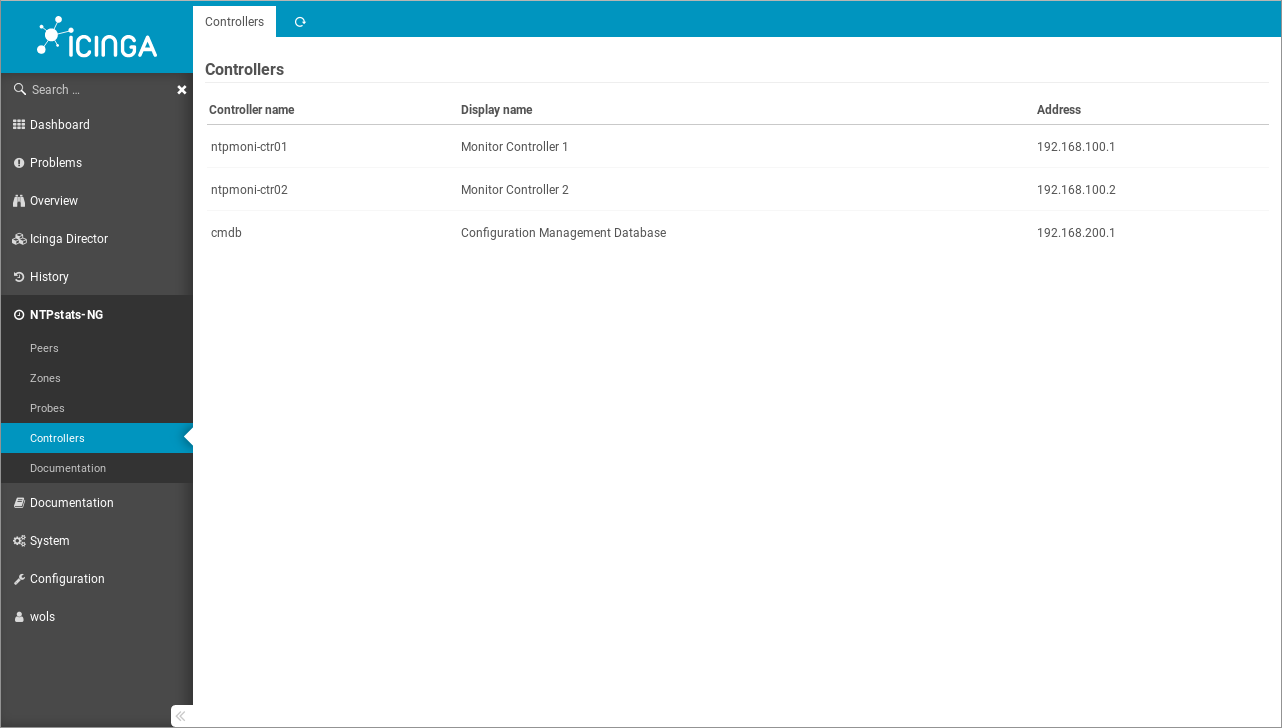
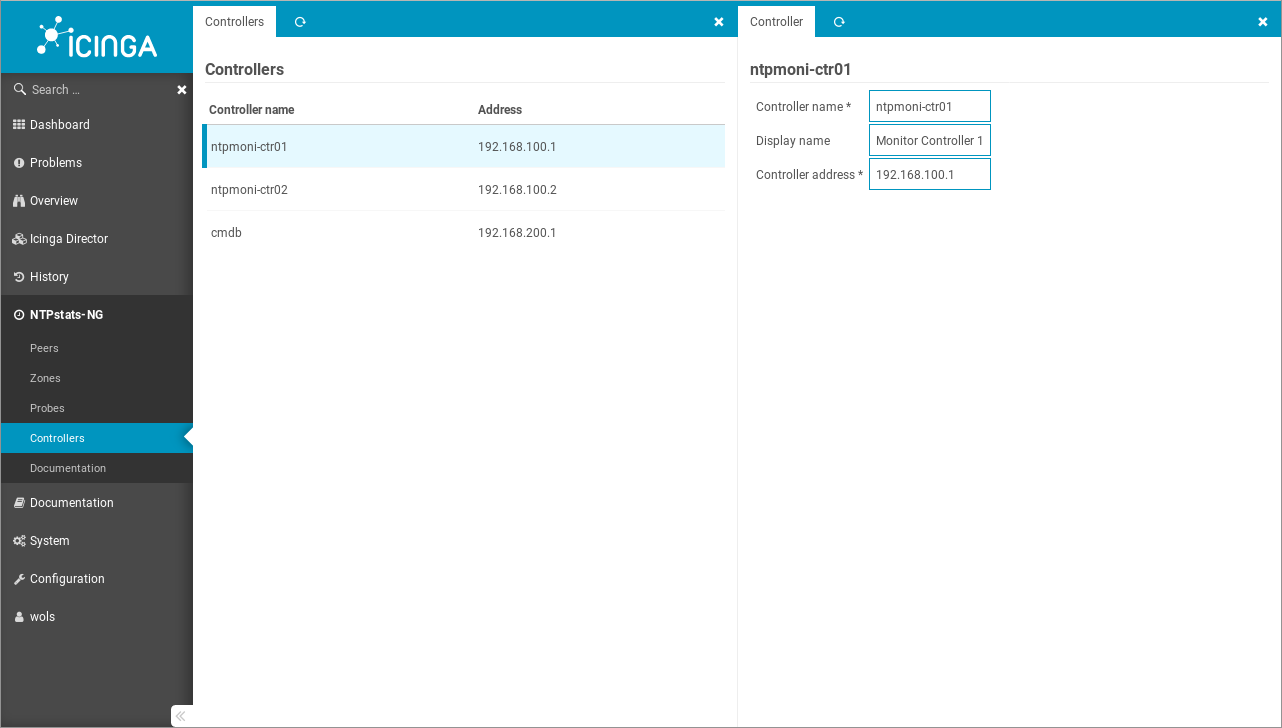
add controller modify, update screenshots

diff --git a/public/css/module.less b/public/css/module.less
@@ -1,0 +1,9 @@
+table.demo_form {
+    border-collapse: separate;
+    border-spacing: 2px;
+}
+
+td.form {
+    border: 1px solid rgb(0, 149, 191);
+    padding: 0.5em;
+}

diff --git a/application/controllers/ModifyController.php b/application/controllers/ModifyController.php
@@ -1,0 +1,125 @@
+<?php
+/* icingaweb2-module-ntpstatsng | (c) 2018 WOLfgang Schricker | GPLv2 */
+
+namespace Icinga\Module\Ntpstatsng\Controllers;
+
+use Icinga\Web\Url;
+use Icinga\Web\Widget\Tabs;
+use Icinga\Module\Ntpstatsng\Data\Db\Demo;
+use Icinga\Module\Ntpstatsng\Controller;
+
+class ModifyController extends Controller
+{
+    /**
+     * @see ActionController::init
+     */
+    public function init()
+    {
+        parent::init();
+        $this->createTabs();
+    }
+
+    /**
+     * Modify controller
+     */
+    public function controllerAction()
+    {
+        $this->addTitleTab(
+            'peer',
+            $this->translate('Controller'),
+            $this->translate('Edit controller')
+        );
+
+        $name  = $this->params->get('name');
+
+        $query = Demo::selectControllers()->where('object_name', $name);
+
+        $this->view->ntpstatsng_controllers = $query->fetchAll();
+
+        $this->view->title = $this->view->ntpstatsng_controllers[0]->object_name;
+    }
+
+    /**
+     * Modify peer
+     */
+    public function peerAction()
+    {
+        $this->addTitleTab(
+            'peer',
+            $this->translate('Peer'),
+            $this->translate('Edit NTP peer')
+        );
+
+        $name  = $this->params->get('name');
+
+        $query = Demo::selectPeers()->where('object_name', $name);
+
+        $this->view->ntpstatsng_peers = $query->fetchAll();
+
+        $this->view->title = $this->view->ntpstatsng_peers[0]->object_name;
+    }
+
+    /**
+     * Modify probe
+     */
+    public function probeAction()
+    {
+        $this->addTitleTab(
+            'probe',
+            $this->translate('Probe'),
+            $this->translate('Edit probe')
+        );
+
+        $name  = $this->params->get('name');
+
+        $query = Demo::selectProbes()->where('object_name', $name);
+
+        $this->view->ntpstatsng_probes = $query->fetchAll();
+
+        $this->view->title = $this->view->ntpstatsng_probes[0]->object_name;
+    }
+
+    /**
+     * Modify zone
+     */
+    public function zoneAction()
+    {
+        $this->addTitleTab(
+            'zone',
+            $this->translate('Zone'),
+            $this->translate('Edit peer zone')
+        );
+
+        $name  = $this->params->get('name');
+
+        $query = Demo::selectZones()->where('object_name', $name);
+
+        $this->view->ntpstatsng_zones = $query->fetchAll();
+
+        $this->view->title = $this->view->ntpstatsng_zones[0]->object_name;
+    }
+
+    /**
+     * The tab and the title
+     */
+    protected function addTitleTab($action, $title, $tip)
+    {
+        $this->getTabs()->add($action, array(
+            'title' => $tip,
+            'label' => $title,
+            'url'   => Url::fromRequest()
+        ))->activate($action);
+
+        $this->view->title = $title;
+    }
+
+    /**
+     * Return all tabs for this controller
+     *
+     * @return Tabs
+     */
+    private function createTabs()
+    {
+        $this->getTabs();
+    }
+}

diff --git a/library/Ntpstatsng/Data/Db/Demo.php b/library/Ntpstatsng/Data/Db/Demo.php
@@ -50,7 +50,6 @@ class Demo
                     'object_name'  => 'peer-ptbtime1',
                     'display_name' => 'ptbtime1.ptb.de',
                     'address'      => '192.53.103.108',
-                    'location'     => 'DE',
                     'location'     => 'PTB, Braunschweig, Niedersachsen, DE',
                     'contact'      => 'ntp-admin@ptb.de',
                 ),
@@ -171,6 +170,16 @@ class Demo
                     'id'           => 8,
                     'object_name'  => 'south-america',
                     'display_name' => 'South America',
+                ),
+                (object) array(
+                    'id'           => 9,
+                    'object_name'  => 'de',
+                    'display_name' => 'Germany',
+                ),
+                (object) array(
+                    'id'           => 9,
+                    'object_name'  => 'us',
+                    'display_name' => 'United States',
                 ),
             )
         );
